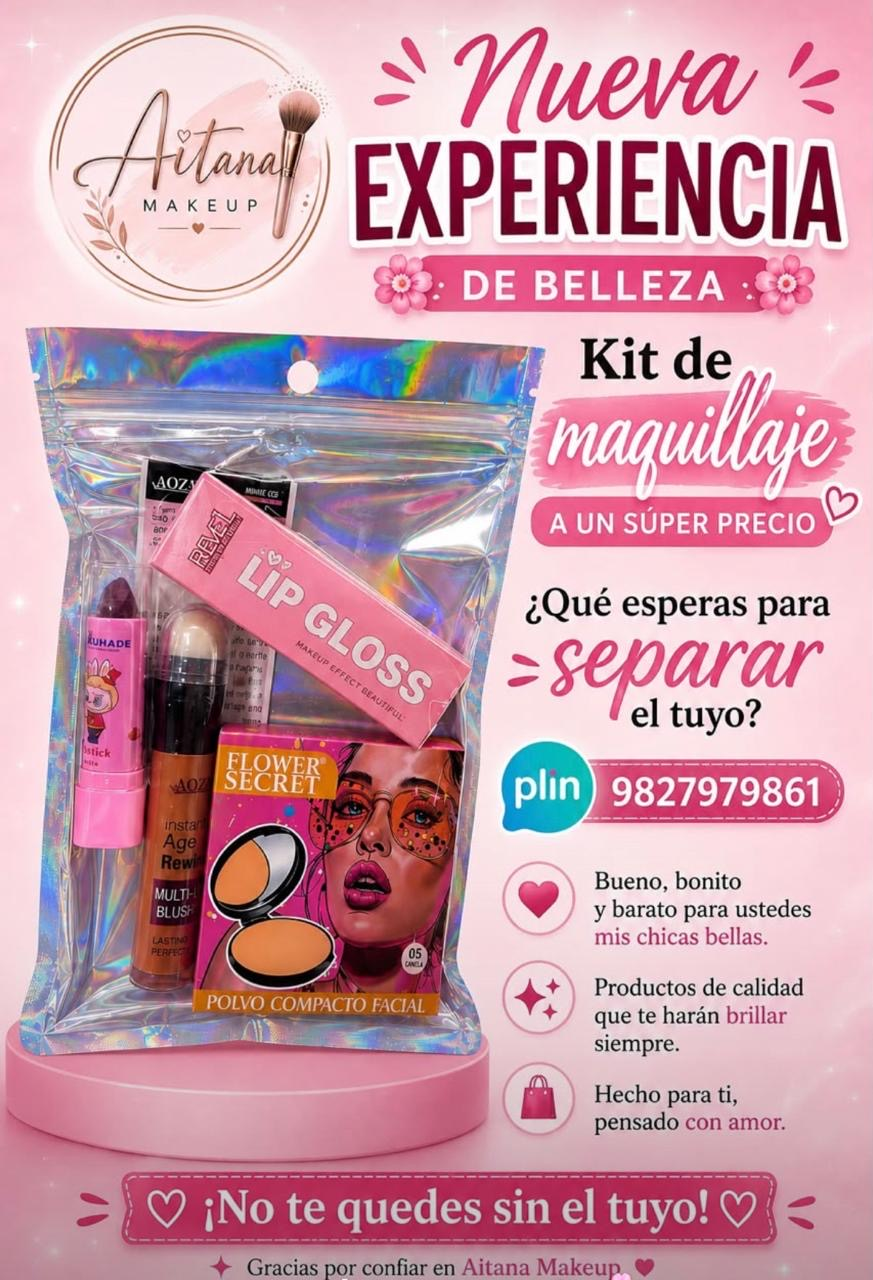
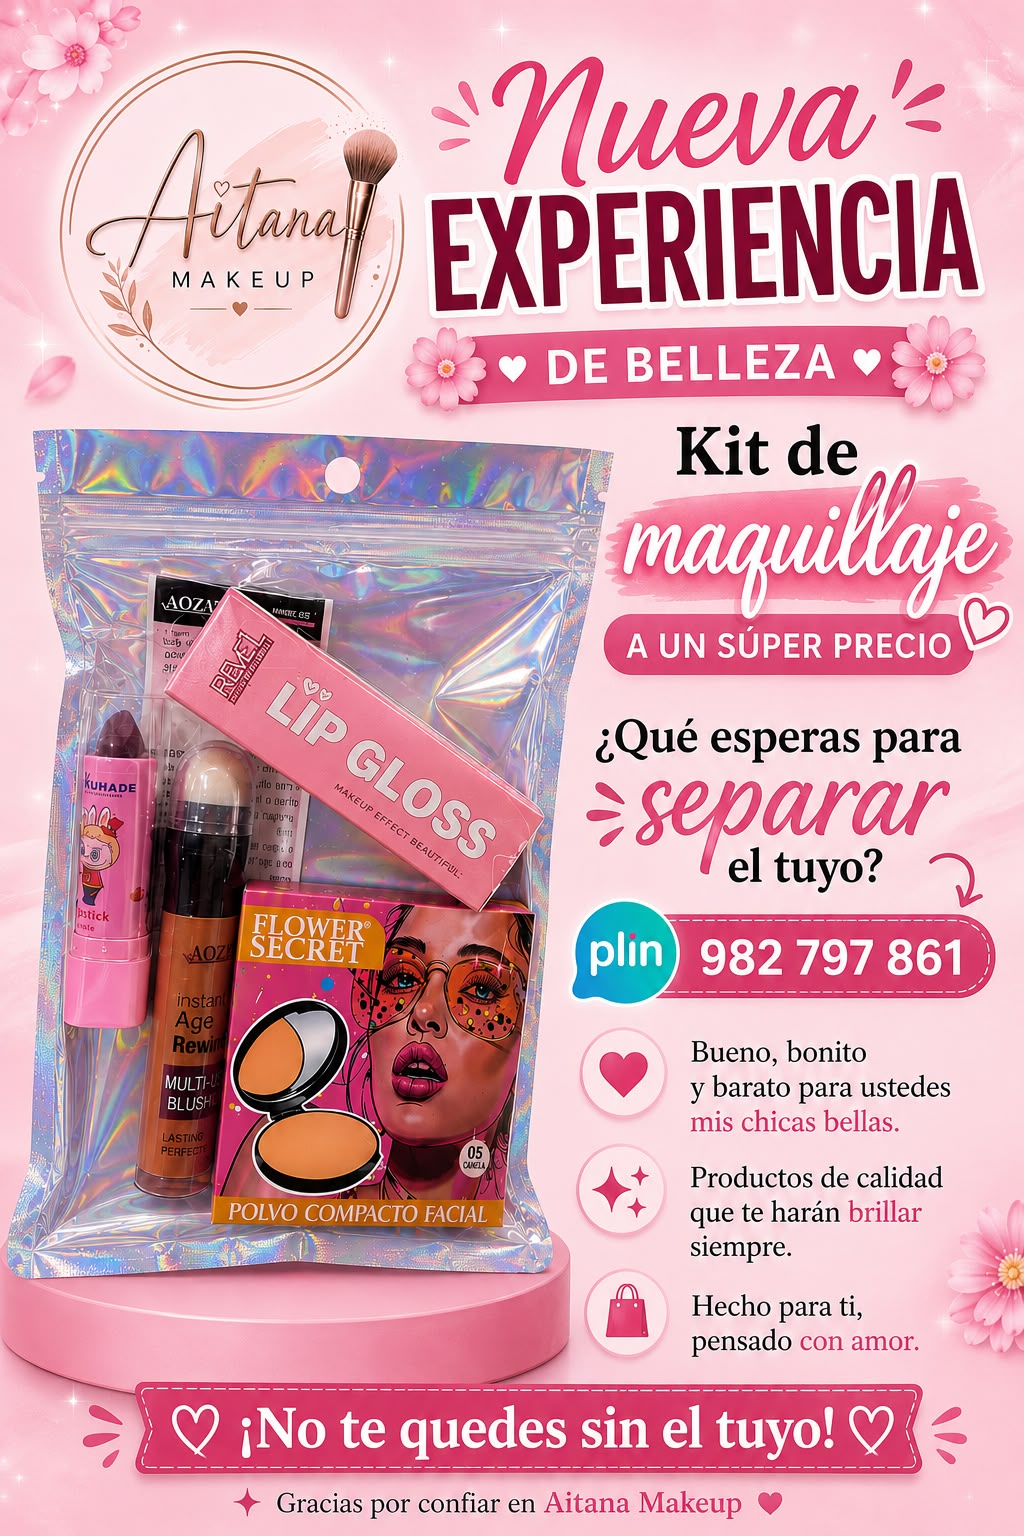
Actualizar imagen del anuncio promocional

diff --git a/index.html b/index.html
@@ -713,8 +713,8 @@
     <img
       src="img/anuncio-aitana.jpg"
       alt="Nueva experiencia de belleza: kit de maquillaje Aitana Make Up a un súper precio"
-      width="872"
-      height="1304"
+      width="1024"
+      height="1536"
     >
   </div>
 </div>
